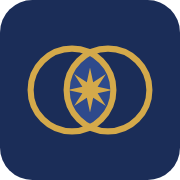
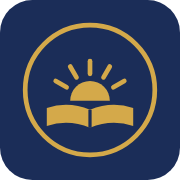
Photo strips in text-heavy sections, new Media hero, book-and-sunrise mark, shorter founder bio
Claude-Session: https://claude.ai/code/session_01EKpusVqUuYe8LVjzqWMAQ1

Changed region(s): [[0.1111, 0.1111, 0.8889, 0.8889]]

diff --git a/formation.html b/formation.html
@@ -17,7 +17,7 @@
 <meta name="theme-color" content="#14131a">
 <link rel="preconnect" href="https://fonts.googleapis.com"><link rel="preconnect" href="https://fonts.gstatic.com" crossorigin>
 <link rel="stylesheet" href="https://fonts.googleapis.com/css2?family=Mrs+Saint+Delafield&family=Spectral:ital,wght@0,400;0,500;0,600;1,400;1,500&family=Source+Sans+3:wght@400;500;600&display=swap">
-<link rel="stylesheet" href="styles.css?v=1022d">
+<link rel="stylesheet" href="styles.css?v=1022e">
 
 </head>
 <body>
@@ -42,6 +42,7 @@
   <li style="--c:#2f6b47"><p class="when">June/July</p><h3>Post-Pentecost Retreat</h3><ul class="list"><li>Theme: Life in the Spirit</li><li>Focus on prayer of the heart</li><li>Hesychast tradition workshops</li></ul></li>
   <li style="--c:#9a2f2a"><p class="when">November/December</p><h3>Nativity Fast Retreat</h3><ul class="list"><li>Theme: Incarnation and Theosis</li><li>Family retreat track available</li><li>Advent preparation</li></ul></li>
 </ol>
+<div class="photo-strip"><figure><picture><source srcset="img/07-100-0105.webp" type="image/webp"><img src="img/07-100-0105.jpg" alt="One of the prayer services held in the glass-walled rotunda entrance of the Pope John Paul II Cultural Center" loading="lazy" decoding="async" data-zoom data-cap="One of the prayer services held in the glass-walled rotunda entrance of the Pope John Paul II Cultural Center."></picture><figcaption>One of the prayer services held in the glass-walled rotunda entrance of the Pope John Paul II Cultural Center.</figcaption></figure><figure><picture><source srcset="img/25-dsc-0115-scaled.webp" type="image/webp"><img src="img/25-dsc-0115-scaled.jpg" alt="Father Michael Kerestes serves vespers one evening" loading="lazy" decoding="async" data-zoom data-cap="Father Michael Kerestes serves vespers one evening."></picture><figcaption>Father Michael Kerestes serves vespers one evening.</figcaption></figure><figure><picture><source srcset="img/23-dsc-0084-scaled.webp" type="image/webp"><img src="img/23-dsc-0084-scaled.jpg" alt="Father George Gallaro incenses during Vespers" loading="lazy" decoding="async" data-zoom data-cap="Father George Gallaro incenses during Vespers."></picture><figcaption>Father George Gallaro incenses during Vespers.</figcaption></figure></div>
 </div></section>
 <section class="sec paper" id="direction"><div class="wrap">
 <header class="sec-head"><p class="kicker">Spiritual Direction Program</p><h2>Accompaniment, one on one and together</h2></header>
@@ -50,6 +51,7 @@
   <div><h3>Group</h3><p>Group spiritual direction</p></div>
   <div><h3>Formation of directors</h3><p>Training program for spiritual directors</p></div>
 </div>
+<div class="photo-strip"><figure><picture><source srcset="img/02-000-0845-1.webp" type="image/webp"><img src="img/02-000-0845-1.jpg" alt="Archbishop Vsevolod of Scopelos and Bishop John Michael Botean lead the conference participants in the opening Moleben to the Holy Spirit" loading="lazy" decoding="async" data-zoom data-cap="Archbishop Vsevolod of Scopelos and Bishop John Michael Botean lead the conference participants in the opening Moleben to the Holy Spirit."></picture><figcaption>Archbishop Vsevolod of Scopelos and Bishop John Michael Botean lead the conference participants in the opening Moleben to the Holy Spirit.</figcaption></figure><figure><picture><source srcset="img/15-dscf2313.webp" type="image/webp"><img src="img/15-dscf2313.jpg" alt="The participants in the OL XI East Conference gather to pray together a non-Eucharistic service" loading="lazy" decoding="async" data-zoom data-cap="The participants in the OL XI East Conference gather to pray together a non-Eucharistic service."></picture><figcaption>The participants in the OL XI East Conference gather to pray together a non-Eucharistic service.</figcaption></figure></div>
 </div></section>
 <section class="sec night on-night" id="pilgrimages"><div class="wrap">
   <div class="pilgrim-intro">
@@ -74,6 +76,7 @@
 </svg></figure>
   </div>
   <p class="aside">The <a href="https://olfoundation.net/" target="_blank" rel="noopener">Orientale Lumen Foundation</a> continues its own ecumenical pilgrimages, open to all who wish to travel and pray with Catholics and Orthodox. Institute pilgrimages build on that tradition as a part of study and formation.</p>
+<div class="photo-strip"><figure><picture><source srcset="img/38-olee3-horse.webp" type="image/webp"><img src="img/38-olee3-horse.jpg" alt="Horse drawn “taxis” take the participants in OL EuroEast III up the hill on the island of Halki to the Orthodox Theological Seminary for one day’s events" loading="lazy" decoding="async" data-zoom data-cap="Horse drawn “taxis” take the participants in OL EuroEast III up the hill on the island of Halki to the Orthodox Theological Seminary for one day’s events."></picture><figcaption>Horse drawn “taxis” take the participants in OL EuroEast III up the hill on the island of Halki to the Orthodox Theological Seminary for one day’s events.</figcaption></figure><figure><picture><source srcset="img/11-audience-patriarch6r.webp" type="image/webp"><img src="img/11-audience-patriarch6r.jpg" alt="Light of the East pilgrims with Ecumenical Patriarch Bartholomew, 2016" loading="lazy" decoding="async" data-zoom data-cap="Light of the East pilgrims with Ecumenical Patriarch Bartholomew, 2016."></picture><figcaption>Light of the East pilgrims with Ecumenical Patriarch Bartholomew, 2016.</figcaption></figure><figure><picture><source srcset="img/31-loe-2-group-papal.webp" type="image/webp"><img src="img/31-loe-2-group-papal.jpg" alt="Light of the East II pilgrims at the papal audience" loading="lazy" decoding="async" data-zoom data-cap="Light of the East II pilgrims at the papal audience."></picture><figcaption>Light of the East II pilgrims at the papal audience.</figcaption></figure></div>
 </div></section>
 <section class="sec night on-night signup" id="interest"><div class="wrap signup-grid">
 <div><p class="kicker">Interest list</p><h2>Hear about retreats and pilgrimages</h2><p class="lede">Leave your name and we will send dates as each retreat and pilgrimage is scheduled.</p><p class="signup-next"><a class="textlink" href="gatherings.html">Next, conferences</a></p></div>

diff --git a/media.html b/media.html
@@ -17,7 +17,7 @@
 <meta name="theme-color" content="#14131a">
 <link rel="preconnect" href="https://fonts.googleapis.com"><link rel="preconnect" href="https://fonts.gstatic.com" crossorigin>
 <link rel="stylesheet" href="https://fonts.googleapis.com/css2?family=Mrs+Saint+Delafield&family=Spectral:ital,wght@0,400;0,500;0,600;1,400;1,500&family=Source+Sans+3:wght@400;500;600&display=swap">
-<link rel="stylesheet" href="styles.css?v=1022d">
+<link rel="stylesheet" href="styles.css?v=1022e">
 
 </head>
 <body>
@@ -31,9 +31,9 @@
   <nav class="nav" id="site-nav" aria-label="Main"><a href="programs.html">Programs</a><a href="formation.html">Formation</a><a href="gatherings.html">Conferences</a><a href="lectures-from-oxford.html">Kallistos Lectures</a><a href="media.html" aria-current="page">Media</a><a href="about.html">About</a><a href="https://ol-institute.com/online-store" target="_blank" rel="noopener">Store</a><a class="btn gold small" href="give.html">Give</a></nav>
 </div></header>
 <main id="main">
-<section class="page-head media-head"><picture><source srcset="img/olxxx-koch-address.webp" type="image/webp"><img src="img/olxxx-koch-address.jpg" alt="Cardinal Kurt Koch addresses a conference by video" loading="eager" decoding="async"></picture>
+<section class="page-head media-head"><picture><source srcset="img/21-dsc-0035-scaled.webp" type="image/webp"><img src="img/21-dsc-0035-scaled.jpg" alt="Catholic and Orthodox speakers on a panel at OL XIV East" loading="eager" decoding="async"></picture>
 <div class="wrap"><p class="kicker">Digital & Media Initiatives</p><h1>A library that travels</h1><p class="lede">Streaming lectures, a publishing house for the Christian East, and new podcasts and documentaries.</p><nav class="jump" aria-label="On this page"><span>On this page</span><a href="#watch">Watch</a><a href="#read">Read</a><a href="#listen">Listen</a></nav></div>
-<p class="credit">Cardinal Kurt Koch addresses Orientale Lumen XXX by video from Rome.</p></section>
+<p class="credit">A panel discussion among the speakers at OL XIV East, (L to R) Archbishop Donald Wuerl, Metropolitan Jonah, Elias Damianakis, Father Peter Galadza, Father John Ford, Archimandrite Robert Taft, SJ.</p></section>
 <section class="sec night on-night"><div class="wrap feature">
   <div><div class="shelf" aria-label="The six volumes"><a class="spine" style="flex-grow:21" href="lectures-from-oxford.html#patristics" title="Volume I, Patristics: 21 lectures"><b>I</b><i>Patristics</i></a><a class="spine" style="flex-grow:25" href="lectures-from-oxford.html#theology" title="Volume II, Theology: 25 lectures"><b>II</b><i>Theology</i></a><a class="spine" style="flex-grow:18" href="lectures-from-oxford.html#ecumenism" title="Volume III, Ecumenism: 18 lectures"><b>III</b><i>Ecumenism</i></a><a class="spine" style="flex-grow:35" href="lectures-from-oxford.html#liturgy" title="Volume IV, Liturgy: 35 lectures"><b>IV</b><i>Liturgy</i></a><a class="spine" style="flex-grow:20" href="lectures-from-oxford.html#spirituality" title="Volume V, Spirituality: 20 lectures"><b>V</b><i>Spirituality</i></a><a class="spine" style="flex-grow:11" href="lectures-from-oxford.html#history" title="Volume VI, History: 11 lectures"><b>VI</b><i>History</i></a></div></div>
   <div><p class="kicker">In the store now</p><h2>Lectures from Oxford</h2>
@@ -63,6 +63,7 @@
       <div><h3>Shows</h3><ul class="list"><li>Weekly theological discussions</li><li>Daily prayer and scripture</li><li>Interview series with scholars</li></ul></div>
     </div>
   </div>
+<div class="photo-strip"><figure><picture><source srcset="img/olxxx-koch-address.webp" type="image/webp"><img src="img/olxxx-koch-address.jpg" alt="Cardinal Kurt Koch addresses Orientale Lumen XXX by video from Rome" loading="lazy" decoding="async" data-zoom data-cap="Cardinal Kurt Koch addresses Orientale Lumen XXX by video from Rome."></picture><figcaption>Cardinal Kurt Koch addresses Orientale Lumen XXX by video from Rome.</figcaption></figure><figure><picture><source srcset="img/30-img-0193.webp" type="image/webp"><img src="img/30-img-0193.jpg" alt="Metropolitan Gerasimos of the Greek Orthodox Church gives a slide presentation on icons" loading="lazy" decoding="async" data-zoom data-cap="Metropolitan Gerasimos of the Greek Orthodox Church gives a slide presentation on icons."></picture><figcaption>Metropolitan Gerasimos of the Greek Orthodox Church gives a slide presentation on icons.</figcaption></figure></div>
 </div></section>
 
 </main>

diff --git a/about.html b/about.html
@@ -17,7 +17,7 @@
 <meta name="theme-color" content="#14131a">
 <link rel="preconnect" href="https://fonts.googleapis.com"><link rel="preconnect" href="https://fonts.gstatic.com" crossorigin>
 <link rel="stylesheet" href="https://fonts.googleapis.com/css2?family=Mrs+Saint+Delafield&family=Spectral:ital,wght@0,400;0,500;0,600;1,400;1,500&family=Source+Sans+3:wght@400;500;600&display=swap">
-<link rel="stylesheet" href="styles.css?v=1022d">
+<link rel="stylesheet" href="styles.css?v=1022e">
 
 </head>
 <body>
@@ -39,7 +39,7 @@
   <ul class="vgrid three founders">
     <li><h3>Jack Figel</h3><p>Founder of the Orientale Lumen Foundation and its conferences, and publisher of Eastern Christian Publications. He recorded and edited the Kallistos lectures.</p></li>
     <li><h3>Rev. Dr. Thomas Colyandro</h3><p>Author of the Institute’s academic plan, from its graduate programs to its retreats and pilgrimages.</p></li>
-    <li><h3>Andrew Likoudis</h3><p>Founder and President of the Likoudis Legacy Foundation and Editor-in-Chief of <cite>The Kydones Review</cite>. Author of <cite>To His Face: Indefectibility and the Problem of Dissent</cite> (2026) and grandson of James Likoudis, Catholic apologist and scholar of East and West.</p></li>
+    <li><h3>Andrew Likoudis</h3><p>Grandson of Catholic apologist James Likoudis. Founder and President of the Likoudis Legacy Foundation and Editor-in-Chief of <cite>The Kydones Review</cite>.</p></li>
   </ul>
 </div></section>
 <section class="sec night on-night" id="history"><div class="wrap">
@@ -59,6 +59,7 @@
       <div><dt>Spiritual Advisory Council</dt><dd>Clergy, monastics, and laypeople</dd></div>
       <div><dt>Ecumenical Advisory Committee</dt><dd>Inter-church relations</dd></div>
     </dl></div>
+<div class="photo-strip"><figure><picture><source srcset="img/09-100-1313-1.webp" type="image/webp"><img src="img/09-100-1313-1.jpg" alt="The Catholic-Orthodox Episcopal dialogue in the US met during the same week in Washington, and joined the OL conference for an ecumenical prayer service" loading="lazy" decoding="async" data-zoom data-cap="The Catholic-Orthodox Episcopal dialogue in the US met during the same week in Washington, and joined the OL conference for an ecumenical prayer service."></picture><figcaption>The Catholic-Orthodox Episcopal dialogue in the US met during the same week in Washington, and joined the OL conference for an ecumenical prayer service.</figcaption></figure><figure><picture><source srcset="img/03-000-0891-1.webp" type="image/webp"><img src="img/03-000-0891-1.jpg" alt="Founder’s Chapel on the USD campus was used for three Divine Liturgies – Armenian, Byzantine Catholic and Orthodox" loading="lazy" decoding="async" data-zoom data-cap="Founder’s Chapel on the USD campus was used for three Divine Liturgies – Armenian, Byzantine Catholic and Orthodox."></picture><figcaption>Founder’s Chapel on the USD campus was used for three Divine Liturgies – Armenian, Byzantine Catholic and Orthodox.</figcaption></figure></div>
 </div></section>
 <section class="sec tint" id="contact"><div class="wrap two">
   <div class="contact-card"><p class="kicker">Contact Us</p><h2>Drop us a line</h2>

diff --git a/gatherings.html b/gatherings.html
@@ -17,7 +17,7 @@
 <meta name="theme-color" content="#14131a">
 <link rel="preconnect" href="https://fonts.googleapis.com"><link rel="preconnect" href="https://fonts.gstatic.com" crossorigin>
 <link rel="stylesheet" href="https://fonts.googleapis.com/css2?family=Mrs+Saint+Delafield&family=Spectral:ital,wght@0,400;0,500;0,600;1,400;1,500&family=Source+Sans+3:wght@400;500;600&display=swap">
-<link rel="stylesheet" href="styles.css?v=1022d">
+<link rel="stylesheet" href="styles.css?v=1022e">
 
 </head>
 <body>
@@ -56,6 +56,7 @@
   <li><p class="when">Special events</p><h3>Special Guest Lectures</h3><p>On current ecumenical issues</p></li>
 </ol>
 <p class="note">The Orientale Lumen Conference itself continues under the <a href="https://olfoundation.net/" target="_blank" rel="noopener">Orientale Lumen Foundation</a>. The Institute’s flagship conference and lecture series are its own academic gatherings, built on that model. Looking for pilgrimages? Institute pilgrimages are part of <a href="formation.html#pilgrimages">Spiritual Formation</a>.</p>
+<div class="photo-strip"><figure><picture><source srcset="img/06-100-0086.webp" type="image/webp"><img src="img/06-100-0086.jpg" alt="The plenary speakers with Chorbishop Seely Beggiani, moderator, at the podium" loading="lazy" decoding="async" data-zoom data-cap="The plenary speakers with Chorbishop Seely Beggiani, moderator, at the podium."></picture><figcaption>The plenary speakers with Chorbishop Seely Beggiani, moderator, at the podium.</figcaption></figure><figure><picture><source srcset="img/05-100-0069.webp" type="image/webp"><img src="img/05-100-0069.jpg" alt="The OL IX East participants in the plenary session auditorium" loading="lazy" decoding="async" data-zoom data-cap="The OL IX East participants in the plenary session auditorium."></picture><figcaption>The OL IX East participants in the plenary session auditorium.</figcaption></figure><figure><picture><source srcset="img/14-dscf2293.webp" type="image/webp"><img src="img/14-dscf2293.jpg" alt="Jack Figel (L) moderates a panel discussion of the plenary speakers" loading="lazy" decoding="async" data-zoom data-cap="Jack Figel (L) moderates a panel discussion of the plenary speakers."></picture><figcaption>Jack Figel (L) moderates a panel discussion of the plenary speakers.</figcaption></figure></div>
 </div></section>
 <section class="sec night on-night signup" id="interest"><div class="wrap signup-grid">
 <div><p class="kicker">Interest list</p><h2>Hear about the next conference</h2><p class="lede">We will write when the first conference and lecture dates are set.</p><p class="signup-next"><a class="textlink" href="lectures-from-oxford.html">Next, the Kallistos Lectures</a></p></div>

diff --git a/programs.html b/programs.html
@@ -17,7 +17,7 @@
 <meta name="theme-color" content="#14131a">
 <link rel="preconnect" href="https://fonts.googleapis.com"><link rel="preconnect" href="https://fonts.gstatic.com" crossorigin>
 <link rel="stylesheet" href="https://fonts.googleapis.com/css2?family=Mrs+Saint+Delafield&family=Spectral:ital,wght@0,400;0,500;0,600;1,400;1,500&family=Source+Sans+3:wght@400;500;600&display=swap">
-<link rel="stylesheet" href="styles.css?v=1022d">
+<link rel="stylesheet" href="styles.css?v=1022e">
 
 </head>
 <body>
@@ -67,6 +67,7 @@
     <article class="prog" id="master-of-biblical-studies-mbs"><h3>Master of Biblical Studies (MBS)</h3><ul class="list"><li>Research-oriented degree</li><li>Emphasis on comparative biblical analysis</li><li>Specializations in: Old Testament, New Testament, and Integration with Church History and/or Patristics</li></ul></article>
   </div>
 </div>
+<div class="photo-strip"><figure><picture><source srcset="img/26-fr-chris-zugger-with-uzhorod-seminarians.webp" type="image/webp"><img src="img/26-fr-chris-zugger-with-uzhorod-seminarians.jpg" alt="Father Chris Zugger with Uzhorod Seminarians" loading="lazy" decoding="async" data-zoom data-cap="Father Chris Zugger with Uzhorod Seminarians."></picture><figcaption>Father Chris Zugger with Uzhorod Seminarians.</figcaption></figure><figure><picture><source srcset="img/18-dsc-0016.webp" type="image/webp"><img src="img/18-dsc-0016.jpg" alt="The speakers at one of the panel discussions during OL XIV North included (L to R) Archimandrite Robert Taft, SJ, Archbishop Cyril Vasil, SJ, Elias Damianakis, and Father George Gallaro" loading="lazy" decoding="async" data-zoom data-cap="The speakers at one of the panel discussions during OL XIV North included (L to R) Archimandrite Robert Taft, SJ, Archbishop Cyril Vasil, SJ, Elias Damianakis, and Father George Gallaro."></picture><figcaption>The speakers at one of the panel discussions during OL XIV North included (L to R) Archimandrite Robert Taft, SJ, Archbishop Cyril Vasil, SJ, Elias Damianakis, and Father George Gallaro.</figcaption></figure></div>
 <div class="tier" id="diplomas">
   <div class="tier-head"><span class="tier-icon"><svg viewBox="0 0 64 64" aria-hidden="true"><path d="M10 24h44v14H10z"/><ellipse cx="10" cy="31" rx="3" ry="7"/><ellipse cx="54" cy="31" rx="3" ry="7"/><path d="M29 24v14M35 24v14"/><path d="M30 38l-4 14 6-4M34 38l4 14-6-4"/></svg></span><h2>Diploma Programs</h2><p>Diploma Programs offer more comprehensive studies and professional preparation, which can lead to direct employment or an undergraduate degree.</p><p class="meta"><span>2 Years</span><span>36 credit hours</span></p></div>
   <div class="prog-grid">

diff --git a/styles.css b/styles.css
@@ -985,3 +985,17 @@ html.desktop-view .page-head.conf-head picture { left: 44%; }
 @media (min-width: 761px) {
   .page-head.conf-head .wrap > * { max-width: calc(44vw - max(var(--gutter), (100vw - var(--wide)) / 2 + var(--gutter)) - 40px); }
 }
+
+/* Oct 22: photo strips in text-heavy sections */
+.photo-strip { display: grid; grid-template-columns: repeat(auto-fit, minmax(220px, 1fr)); gap: 16px; margin-top: clamp(28px, 4vw, 44px); }
+.photo-strip figure { margin: 0; }
+.photo-strip img { display: block; width: 100%; aspect-ratio: 3 / 2; object-fit: cover; cursor: zoom-in; }
+.photo-strip figcaption { margin-top: 8px; font-size: .82rem; line-height: 1.45; font-style: italic; color: var(--ink-2); }
+.on-night .photo-strip figcaption { color: var(--on-night-2); }
+/* Oct 22: About and Media heroes split from tablet width up */
+@media (min-width: 761px) and (max-width: 900px) {
+  .page-head.about-head picture, .page-head.media-head picture, .page-head.kallistos picture { left: 44%; }
+  .page-head.about-head::after, .page-head.media-head::after, .page-head.kallistos::after { background: linear-gradient(90deg, var(--royal) 44%, rgba(27,45,92,0) 44.1%); }
+  .page-head.about-head .wrap > *, .page-head.media-head .wrap > *, .page-head.kallistos .wrap > * { max-width: calc(44vw - var(--gutter) - 32px); }
+  .page-head.about-head img, .page-head.media-head img, .page-head.kallistos img { opacity: 1; }
+}

diff --git a/index.html b/index.html
@@ -17,7 +17,7 @@
 <meta name="theme-color" content="#14131a">
 <link rel="preconnect" href="https://fonts.googleapis.com"><link rel="preconnect" href="https://fonts.gstatic.com" crossorigin>
 <link rel="stylesheet" href="https://fonts.googleapis.com/css2?family=Mrs+Saint+Delafield&family=Spectral:ital,wght@0,400;0,500;0,600;1,400;1,500&family=Source+Sans+3:wght@400;500;600&display=swap">
-<link rel="stylesheet" href="styles.css?v=1022d">
+<link rel="stylesheet" href="styles.css?v=1022e">
 <script type="application/ld+json">{"@context": "https://schema.org", "@type": "EducationalOrganization", "name": "Orientale Lumen Institute", "url": "https://ol-institute.com", "email": "jackfigel@ol-institute.com", "telephone": "+1-703-691-8585", "address": {"@type": "PostalAddress", "streetAddress": "3574 University Drive", "addressLocality": "Fairfax", "addressRegion": "VA", "postalCode": "22030", "addressCountry": "US"}, "parentOrganization": {"@type": "Organization", "name": "Orientale Lumen Foundation", "url": "https://olfoundation.net"}}</script>
 </head>
 <body>

diff --git a/give.html b/give.html
@@ -17,7 +17,7 @@
 <meta name="theme-color" content="#14131a">
 <link rel="preconnect" href="https://fonts.googleapis.com"><link rel="preconnect" href="https://fonts.gstatic.com" crossorigin>
 <link rel="stylesheet" href="https://fonts.googleapis.com/css2?family=Mrs+Saint+Delafield&family=Spectral:ital,wght@0,400;0,500;0,600;1,400;1,500&family=Source+Sans+3:wght@400;500;600&display=swap">
-<link rel="stylesheet" href="styles.css?v=1022d">
+<link rel="stylesheet" href="styles.css?v=1022e">
 
 </head>
 <body>

diff --git a/lectures-from-oxford.html b/lectures-from-oxford.html
@@ -17,7 +17,7 @@
 <meta name="theme-color" content="#14131a">
 <link rel="preconnect" href="https://fonts.googleapis.com"><link rel="preconnect" href="https://fonts.gstatic.com" crossorigin>
 <link rel="stylesheet" href="https://fonts.googleapis.com/css2?family=Mrs+Saint+Delafield&family=Spectral:ital,wght@0,400;0,500;0,600;1,400;1,500&family=Source+Sans+3:wght@400;500;600&display=swap">
-<link rel="stylesheet" href="styles.css?v=1022d">
+<link rel="stylesheet" href="styles.css?v=1022e">
 
 </head>
 <body>
